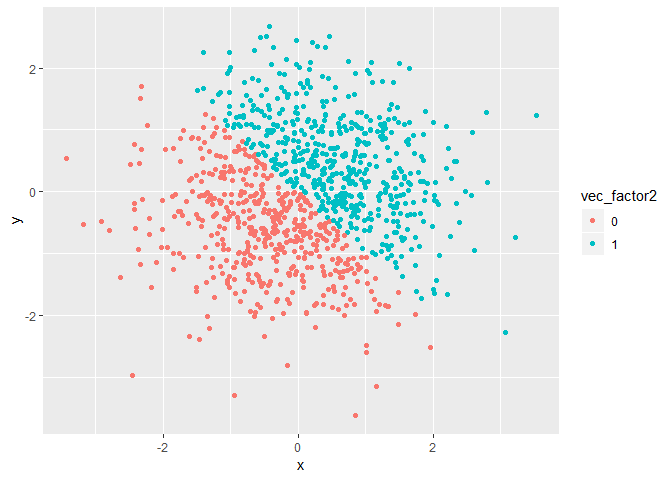
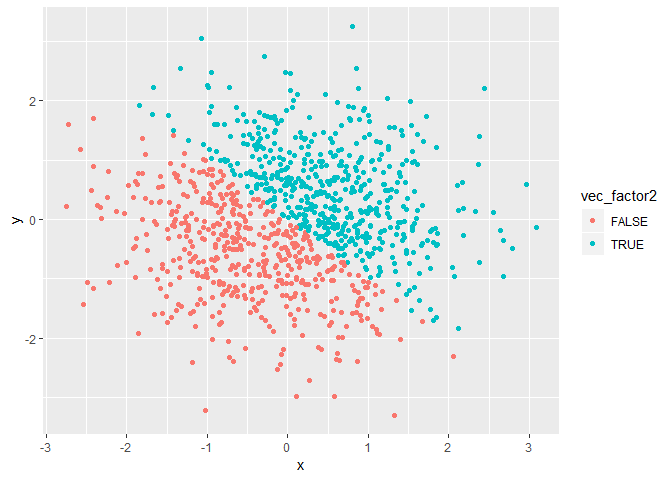
Some final edits

diff --git a/p8105_hw1_baw2160.md b/p8105_hw1_baw2160.md
@@ -32,13 +32,13 @@ Attempting to take the mean of each variable in my date frame:
 mean(prob1_df[["unif_samp"]])
 ```
 
-    ## [1] 2.422032
+    ## [1] 2.680618
 
 ``` r
 mean(prob1_df[["vec_logic"]])
 ```
 
-    ## [1] 0.6
+    ## [1] 0.7
 
 ``` r
 mean(prob1_df[["vec_char"]])
@@ -60,7 +60,9 @@ mean(prob1_df[["vec_factor"]])
 
 Turns out that taking the means of the character and factor vector do not work, but taking the means of the logical vector and the random sample from the uniform distribution do.
 
-The error message indicates that one can only take the mean of a numeric or a logical vector when using the mean() function.
+The error messages indicates that one can only take the mean of a numeric or a logical vector when using the mean() function.
+
+This could be due to the fact that a character vector isn't made of values that can be summed and divided. Similarly, the factor vector is composed of categorical variables, which also can't be summed and divided like a continuous variable. Even though logical vectors could be technically be made of variable names that look like characters and represent dichotomous outcomes, they can be transformed into 1s and 0s, which can be evaluated like a continuous variable.
 
 Converting variables
 --------------------
@@ -99,7 +101,7 @@ Problem 2:
 New dataframe:
 --------------
 
-Now we are creating a data frame comprised of: x: a random sample of size 1000 from a standard Normal distribution y: a random sample of size 1000 from a standard Normal distribution A logical vector indicating whether the x + y &gt; 0 A numeric vector created by coercing the above logical vector A factor vector created by coercing the above logical vector
+Now we are creating a data frame comprised of: x: a random sample of size 1000 from a standard Normal distribution; y: a random sample of size 1000 from a standard Normal distribution; A logical vector indicating whether the x + y &gt; 0; A numeric vector created by coercing the above logical vector; A factor vector created by coercing the above logical vector
 
 ``` r
 prob2_df = tibble(
@@ -107,11 +109,11 @@ prob2_df = tibble(
   
   y = rnorm(1000),
   
-  vec_logic2 = x + y > 0,
+  vec_logic2 = (x + y) > 0,
   
   vec_num = as.numeric(vec_logic2),
   
-  vec_factor2 = factor(vec_num)
+  vec_factor2 = as.factor(vec_logic2)
 )
 ```
 
@@ -120,11 +122,11 @@ Describing the problem 2 dataframe:
 
 The size of prob2\_df is 1000, 5
 
-The mean of x is 0.0787839
+The mean of x is 0.0326621
 
-The median of x is 0.0824854
+The median of x is 0.0575164
 
-The proportion of cases for which the logical vector is TRUE is 0.525
+The proportion of cases for which the logical vector is TRUE is 0.521
 
 Making a scatterplot:
 ---------------------
@@ -153,6 +155,6 @@ ggplot(prob2_df, aes(x = x, y = y, color = vec_factor2)) + geom_point()
 
 ![](p8105_hw1_baw2160_files/figure-markdown_github/Making_scatterplots-3.png)
 
-It appears as if the color scale for the first scatterplot (using the logical vector) is the same as the color for the third scatterplot (using the factor vector). They are colored based on a binary labeling pattern, and the pattern appears exactly the same. This makes sense to me, because they both represent the same vector (the factor vector is created from the logical vector once the logical vector has been converted into numerical values). The information presented in each vector is the same binary info. The difference is that in one the categories are named TRUE and FALSE, and in the other they are named 1 and 0.
+It appears as if the color scale for the first scatterplot (using the logical vector) is the same as the color for the third scatterplot (using the factor vector). They are colored based on a binary labeling pattern, and the pattern appears exactly the same. This makes sense to me, because they both represent the same vector (the factor vector is created from the logical vector, so holds the same binary info - it just can't be evaluated as a continuous variable).
 
-The color scale for the second scatterplot (using the numeric vector) is a little different. In this one, the color can be anywhere along a gradient from dark to light, where the darkest point on the scale represents 0 and the lightest represents 1. In practice, however, the coloring pattern seems the same as the other two plots. Again, the data represented in the numeric vector is the same binary data represented in the logical and factor vector. So, there aren't any points that don't belong to either the darkest or lightest point in the scale, and the position of either one category versus the other is the same.
+The color scale for the second scatterplot (using the numeric vector) is a little different. In this one, the color can be anywhere along a gradient from dark to light, where the darkest point on the scale represents 0 and the lightest represents 1. In practice, however, the coloring pattern seems the same as the other two plots. Again, the data represented in the numeric vector is the same binary data represented in the logical and factor vector. So, there aren't any points that don't belong to either the darkest or lightest point in the scale, and the position of each point in the scatterplot is the same.
